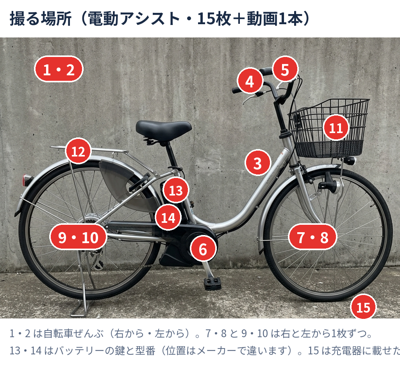
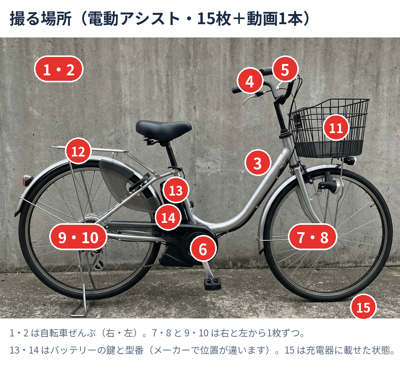
写真査定: 撮る場所の図の注記を短く（右端で切れていた）

Changed region(s): [[0.03, 0.8753, 1.0, 0.9629]]

diff --git a/docs/mihon/make-map.py b/docs/mihon/make-map.py
@@ -22,8 +22,8 @@ NORMAL_POS = {'1・2': (150, 230), '3': (700, 470), '4': (650, 250), '5': (485, 
 NORMAL_NOTE = ['1・2 は自転車ぜんぶ（右から・左から）。6・7 と 8・9 は右と左から1枚ずつ。',
                '10・11 の前カゴ・荷台は、付いていれば。']
 EBIKE_POS = {'1・2': (150, 230), '3': (660, 470), '4': (640, 260), '5': (730, 230), '6': (520, 690), '7・8': (800, 660), '9・10': (200, 660), '11': (860, 380), '12': (200, 440), '13': (450, 540), '14': (430, 610), '15': (930, 840)}
-EBIKE_NOTE = ['1・2 は自転車ぜんぶ（右から・左から）。7・8 と 9・10 は右と左から1枚ずつ。',
-              '13・14 はバッテリーの鍵と型番（位置はメーカーで違います）。15 は充電器に載せた状態。']
+EBIKE_NOTE = ['1・2 は自転車ぜんぶ（右・左）。7・8 と 9・10 は右と左から1枚ずつ。',
+              '13・14 はバッテリーの鍵と型番（メーカーで位置が違います）。15 は充電器に載せた状態。']
 
 
 def photo_map(src_dir, src_id, pos, title, notes):
@@ -45,7 +45,7 @@ def photo_map(src_dir, src_id, pos, title, notes):
             mm.badge(d, cx, cy, int(n), r=34)
     d.text((24, 22), title, font=mm.font(40), fill=INK)
     for i, t in enumerate(notes):
-        d.text((24, TOP + H + 22 + i * 44), t, font=mm.font(26, bold=False), fill=SUB)
+        d.text((24, TOP + H + 22 + i * 44), t, font=mm.font(24, bold=False), fill=SUB)
     return im
 
 
